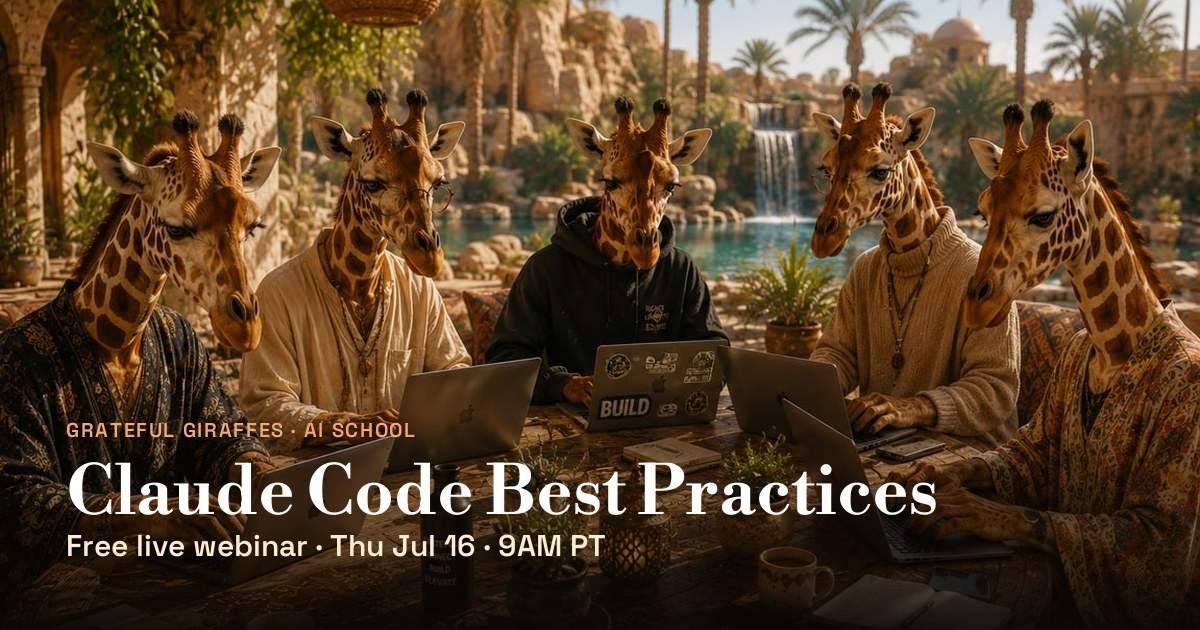
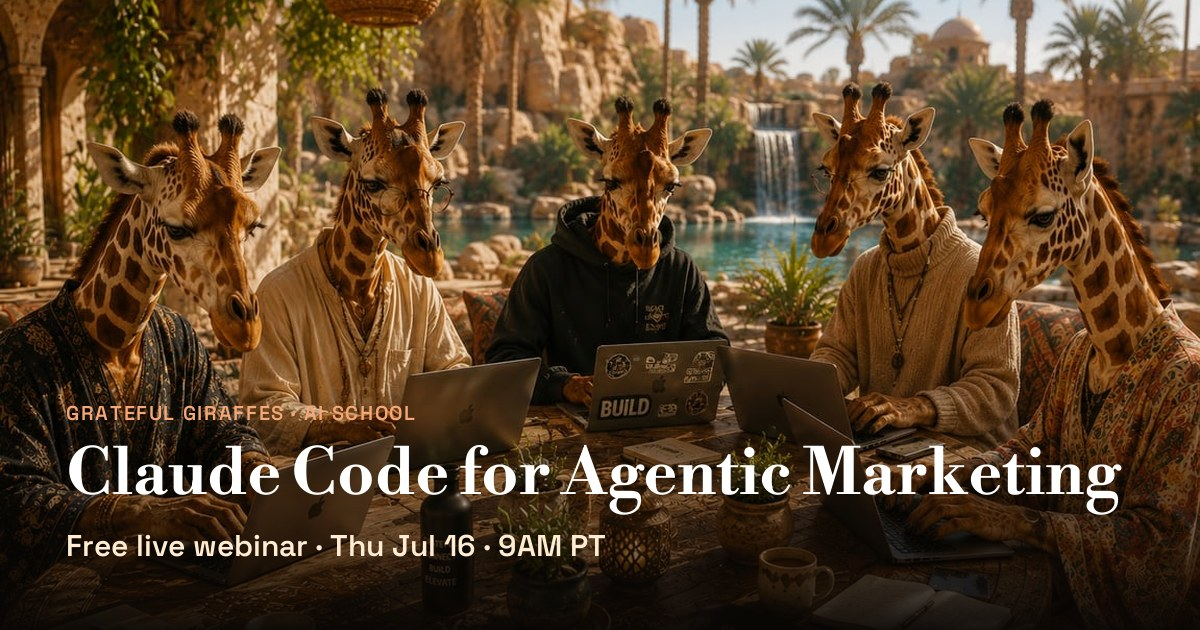
claudecode: rename to Claude Code for Agentic Marketing (title + thumbnail)

Changed region(s): [[0.0308, 0.6333, 0.9558, 0.8143]]

diff --git a/claudecode/index.html b/claudecode/index.html
@@ -3,11 +3,11 @@
 <head>
 <meta charset="utf-8">
 <meta name="viewport" content="width=device-width, initial-scale=1">
-<title>Claude Code Best Practices · The Oasis</title>
+<title>Claude Code for Agentic Marketing · The Oasis</title>
 
 <meta property="og:type" content="website">
 <meta property="og:site_name" content="The Oasis">
-<meta property="og:title" content="Claude Code Best Practices">
+<meta property="og:title" content="Claude Code for Agentic Marketing">
 <meta property="og:description" content="Free live webinar · Thu Jul 16, 9-10am PT. 30 minutes on agentic workflows, parallel sessions, context &amp; memory, and token discipline. Then open Q&amp;A. Hosted by Benza Maman.">
 <meta property="og:url" content="https://grateful.gg/claudecode/">
 <meta property="og:image" content="https://grateful.gg/claudecode/cover.jpg">
@@ -15,9 +15,9 @@
 <meta property="og:image:type" content="image/jpeg">
 <meta property="og:image:width" content="1200">
 <meta property="og:image:height" content="630">
-<meta property="og:image:alt" content="Claude Code Best Practices">
+<meta property="og:image:alt" content="Claude Code for Agentic Marketing">
 <meta name="twitter:card" content="summary_large_image">
-<meta name="twitter:title" content="Claude Code Best Practices">
+<meta name="twitter:title" content="Claude Code for Agentic Marketing">
 <meta name="twitter:description" content="Free live webinar · Thu Jul 16, 9-10am PT. 30 minutes on agentic workflows, parallel sessions, context &amp; memory, and token discipline. Then open Q&amp;A. Hosted by Benza Maman.">
 <meta name="twitter:image" content="https://grateful.gg/claudecode/cover.jpg">
 
@@ -40,8 +40,8 @@
 </head>
 <body>
   <main class="card">
-    <img src="https://grateful.gg/claudecode/cover.jpg" alt="Claude Code Best Practices" width="1200" height="630">
-    <div class="b"><h1>Claude Code Best Practices</h1><p>Free live webinar · Thu Jul 16, 9-10am PT. 30 minutes on agentic workflows, parallel sessions, context &amp; memory, and token discipline. Then open Q&amp;A. Hosted by Benza Maman.</p>
+    <img src="https://grateful.gg/claudecode/cover.jpg" alt="Claude Code for Agentic Marketing" width="1200" height="630">
+    <div class="b"><h1>Claude Code for Agentic Marketing</h1><p>Free live webinar · Thu Jul 16, 9-10am PT. 30 minutes on agentic workflows, parallel sessions, context &amp; memory, and token discipline. Then open Q&amp;A. Hosted by Benza Maman.</p>
     <a class="btn" href="https://app.grateful.gg/claudecode">Open the event &rarr;</a></div>
   </main>
 </body>
